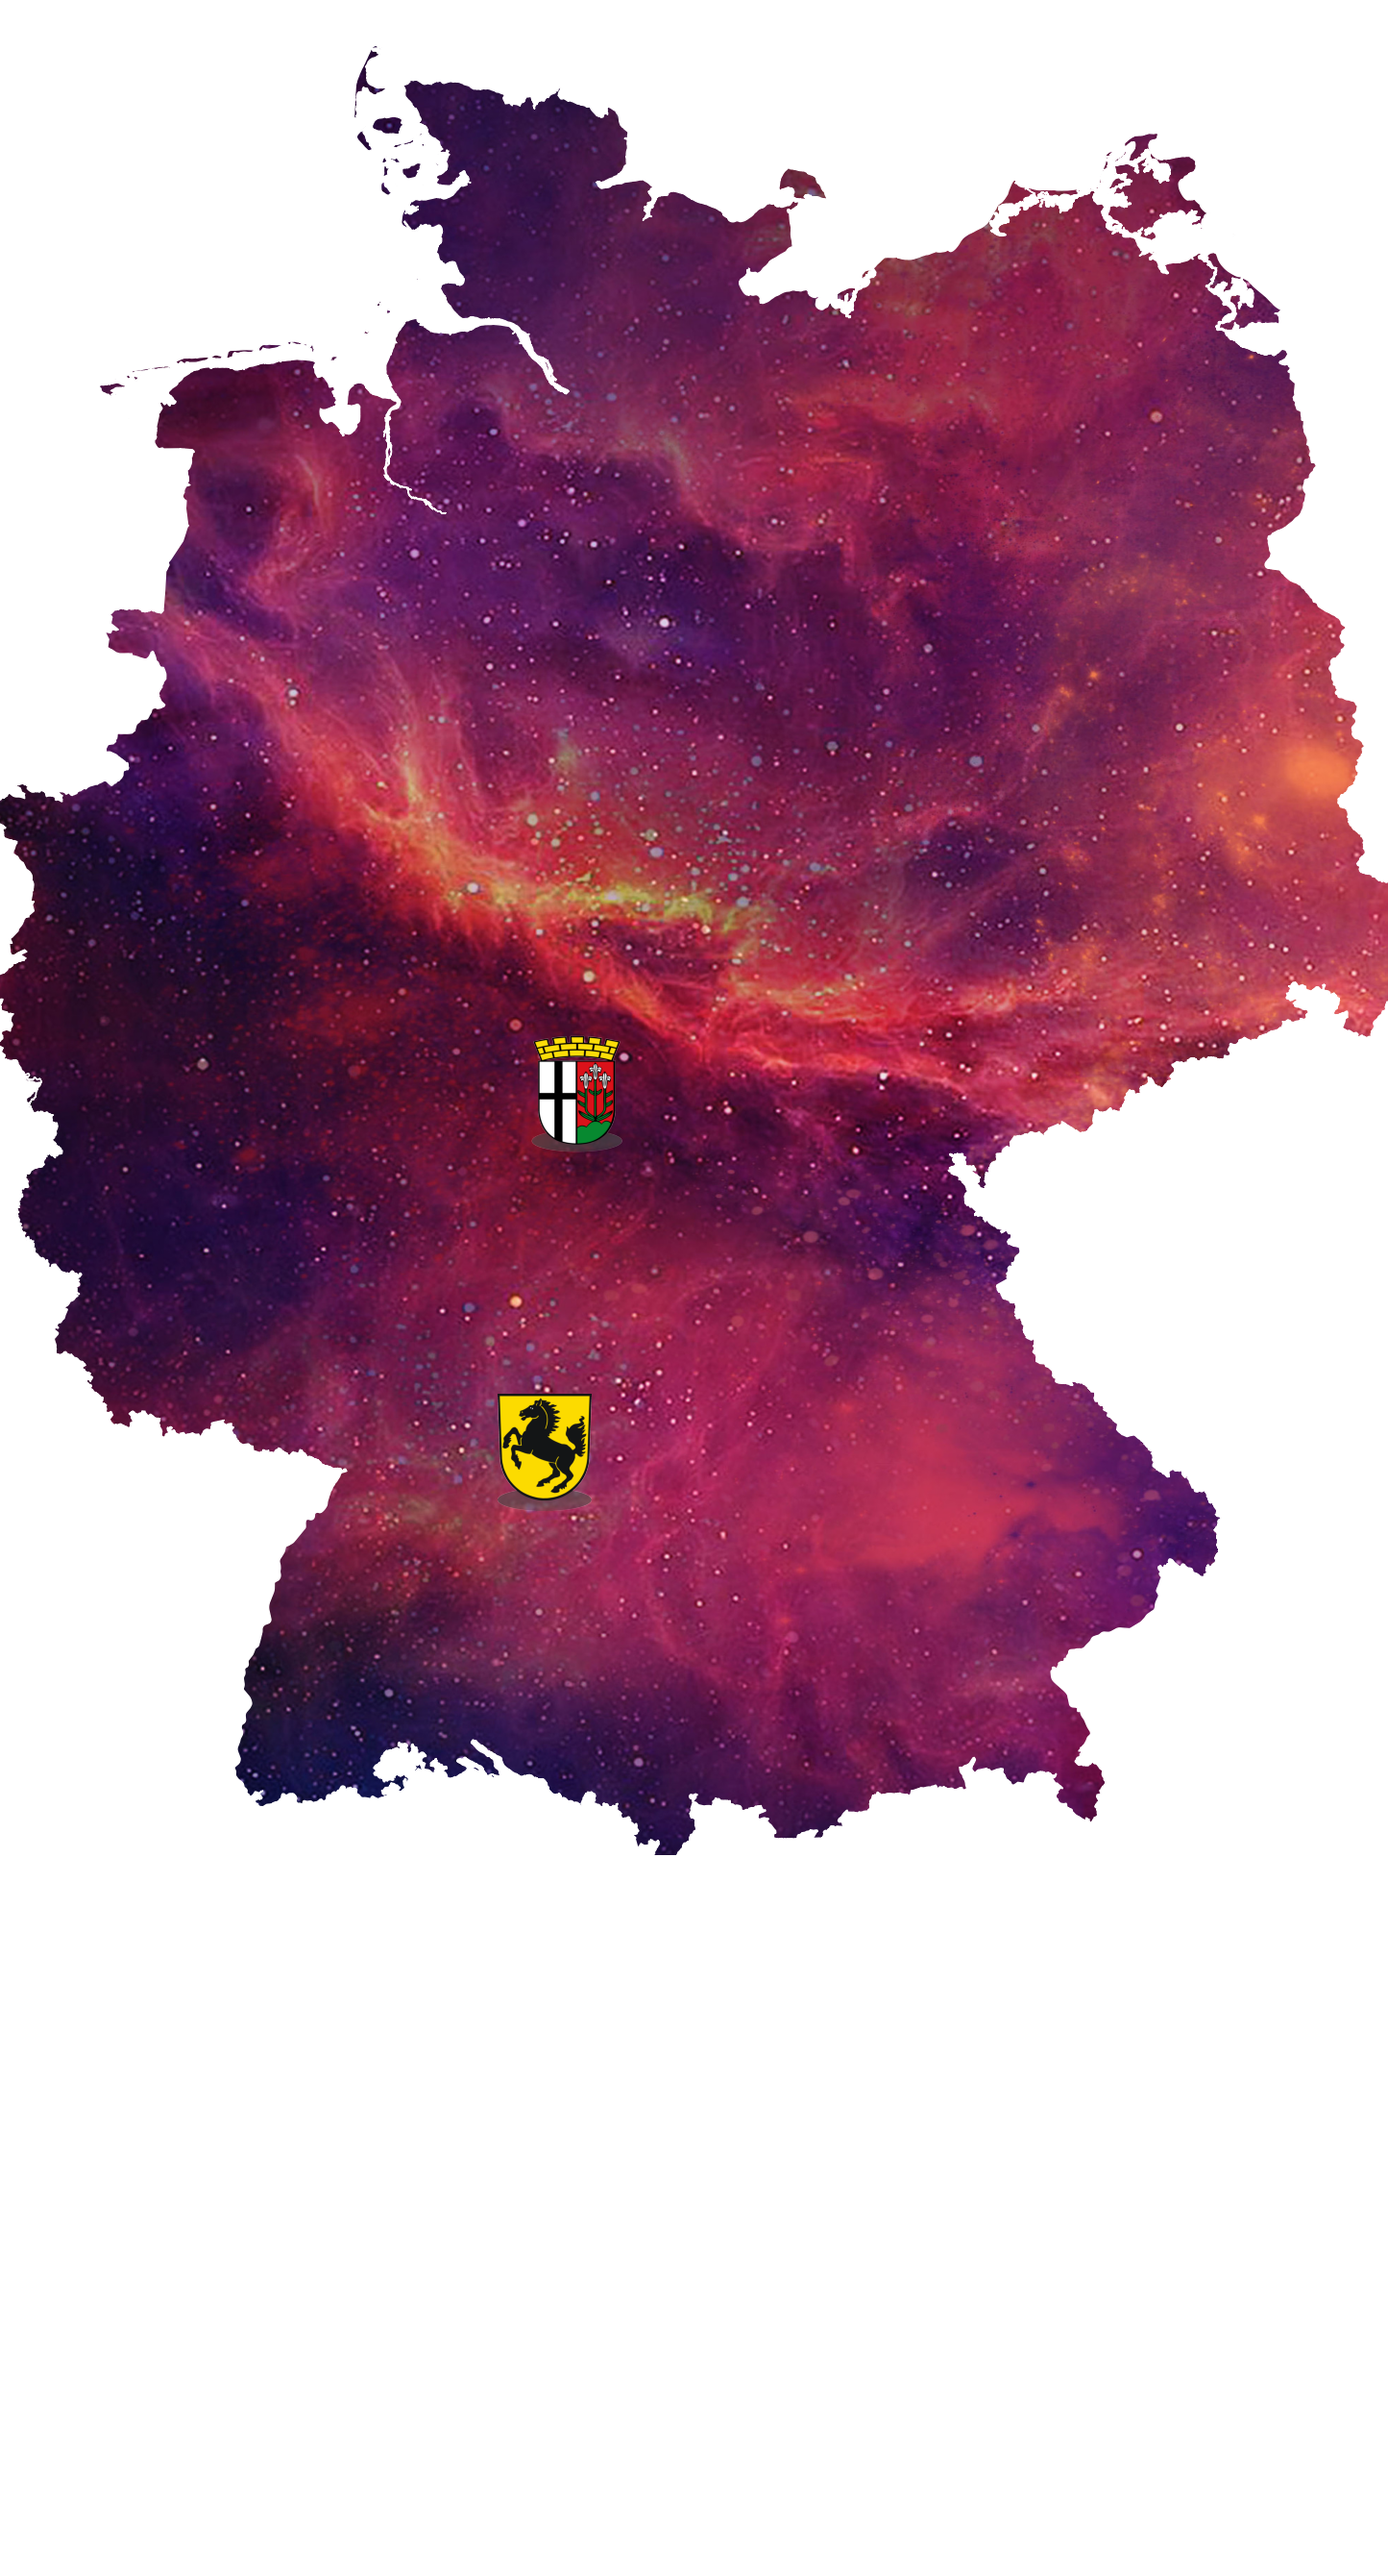
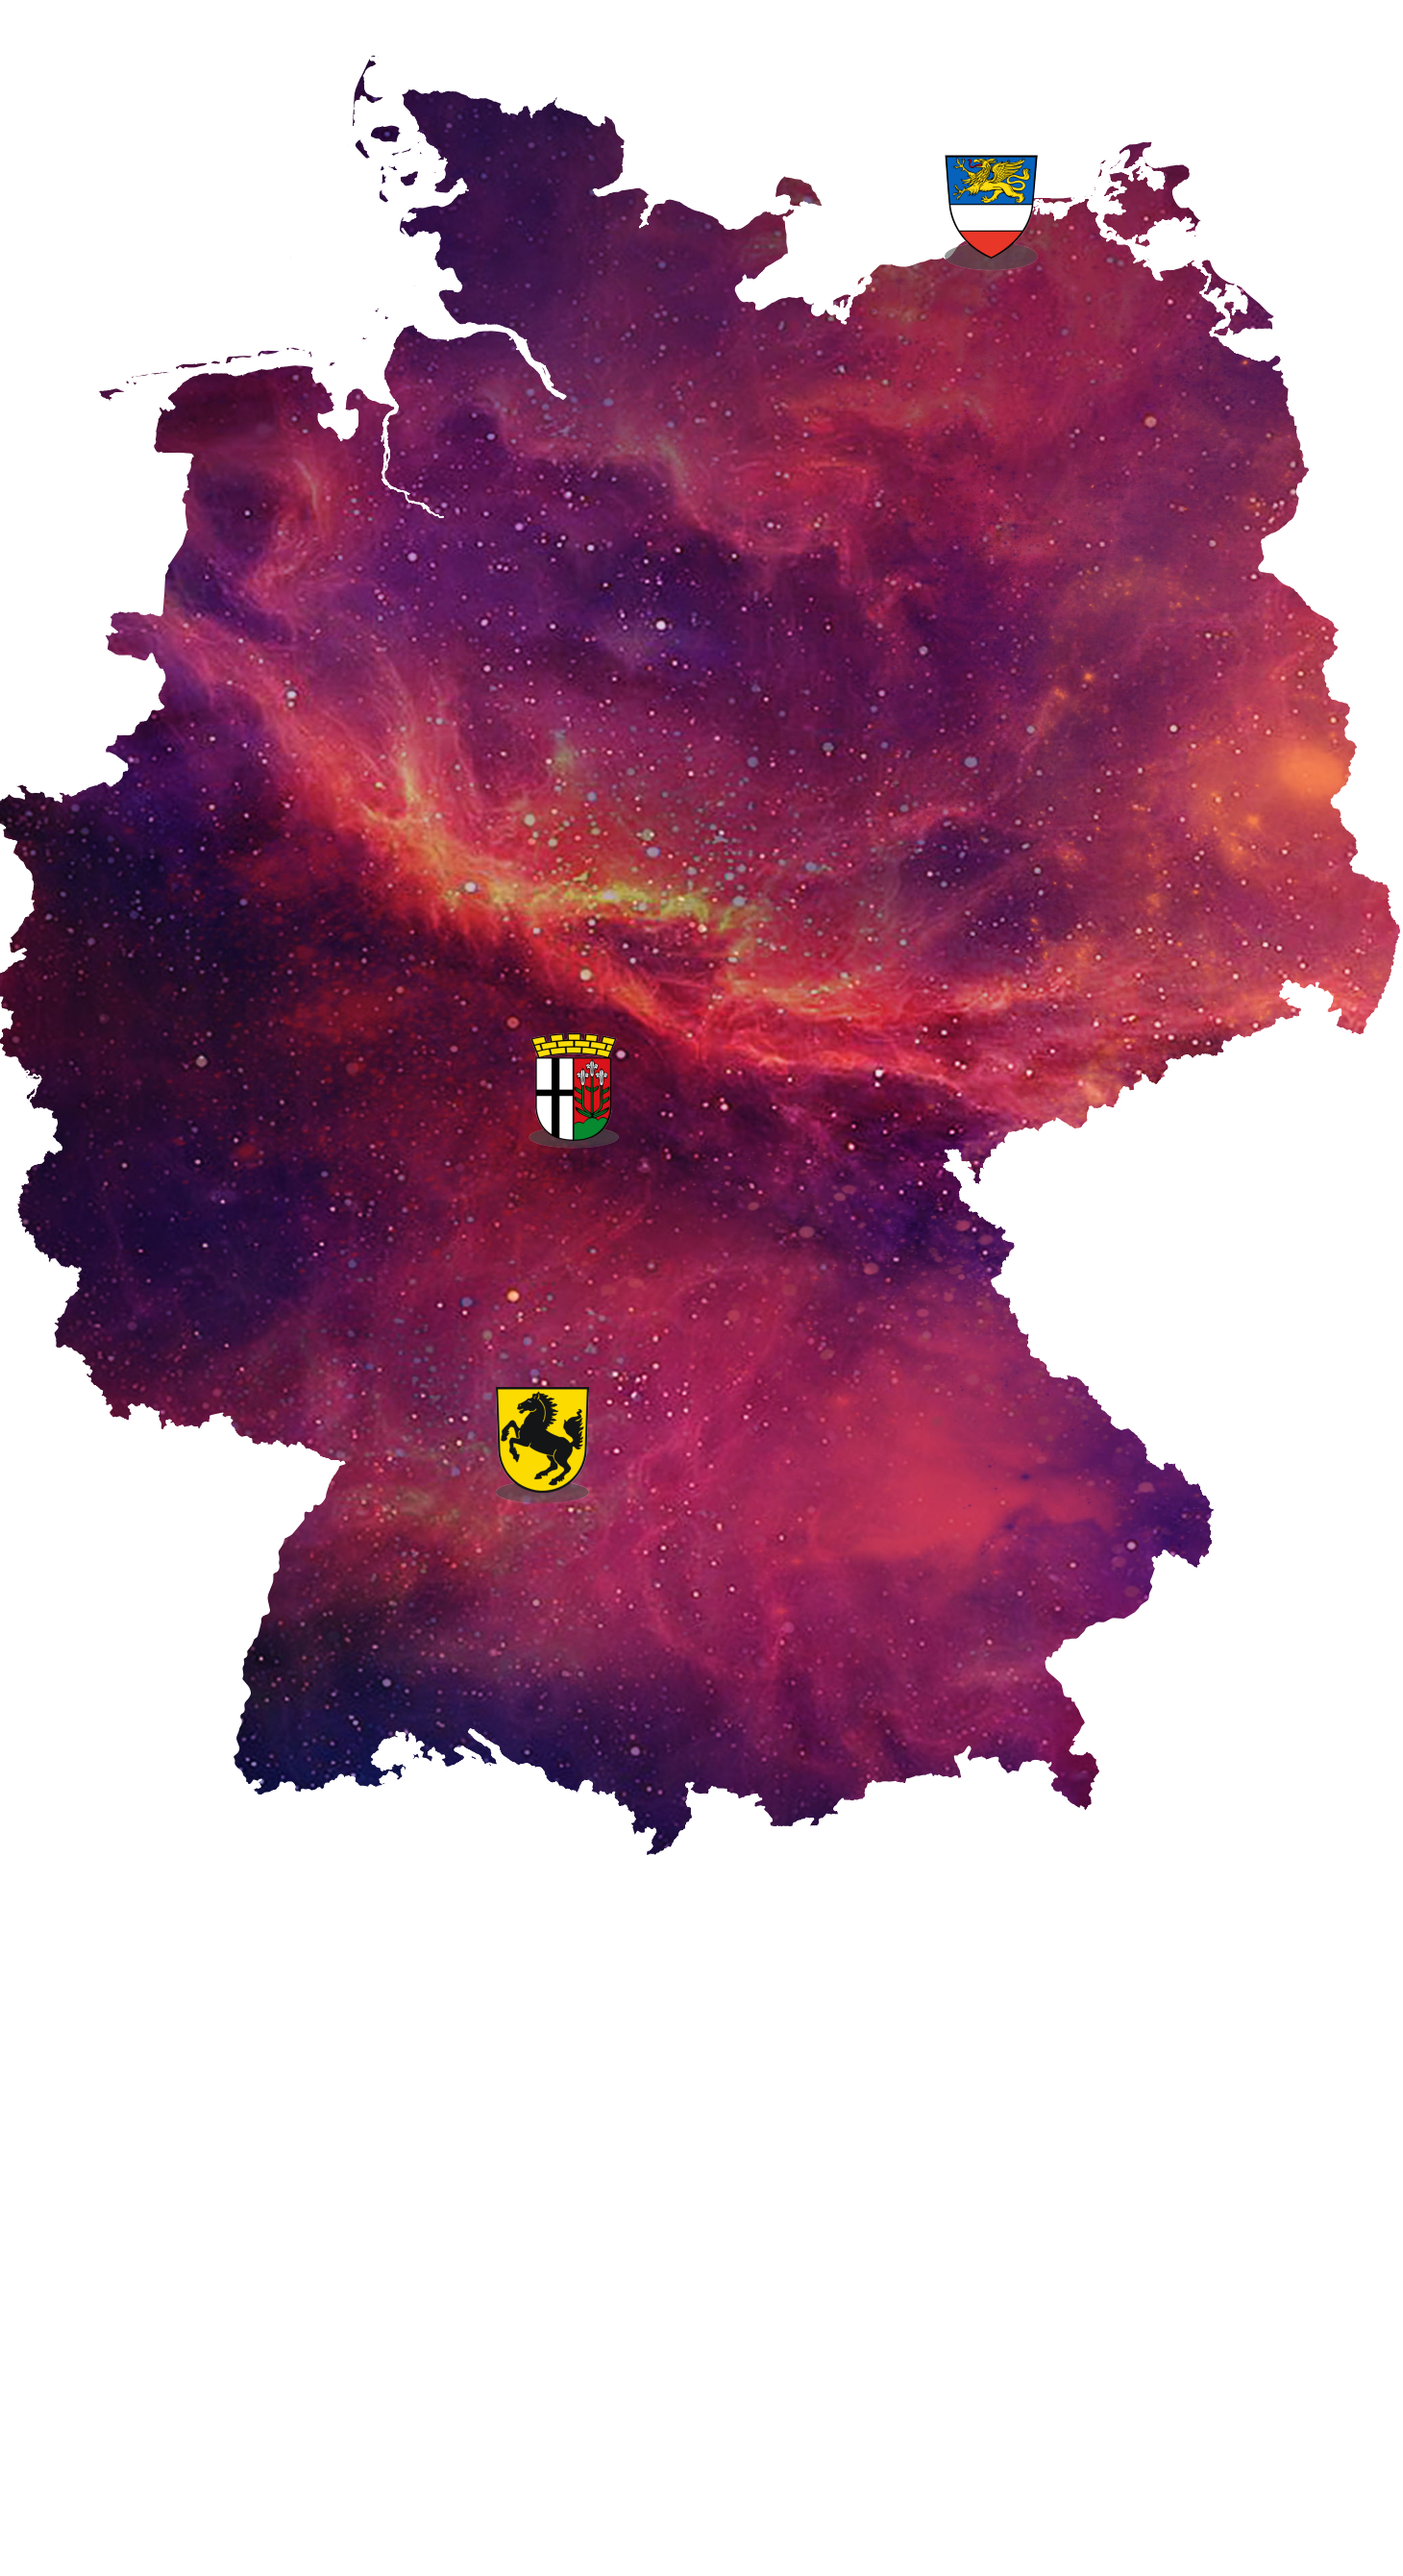
Started adapting ParamsParser

diff --git a/pin_maps/input_parser/ParamsParser.py b/pin_maps/input_parser/ParamsParser.py
@@ -1,8 +1,18 @@
 # Python libraries
-# import yaml
-# External modules
 import argparse
+import json
+# Internal modules
+from input_parser.Coordinates import Coordinates
 
+# NOTE Needed information
+# Country name => shapefile name
+    # Rahmen Land
+    # Rahmen Hintergrund
+    # 
+# Pin => Dateiname, Pin-Koordinaten
+# Hintergrundname => Dateiname 
+# Text1, Text2
+# Font1, Font2
 
 class ParamsParser:
     """Class that makes it easy to retrieve parsed parameters."""
@@ -13,23 +23,57 @@ class ParamsParser:
     def __init__(self):
         parser = argparse.ArgumentParser()
         parser.add_argument(
-            '-q', 
-            '--query',
-            # nargs = '+', SPÄTER LISTE
-            # required = True,
+            '-c', '--country',
+            required = True,
             type = str,
-            help = 'The city or region of which you want to create a map.'
-                )
-        parser.add_argument(
-            '-a',
-            '--latitude',
-            type = float
+            help = 'The country shape which will be displayed.'
         )
         parser.add_argument(
-            '-o',
-            '--longitude',
-            type = float
+            '-w', '--wallpaper',
+            required = True,
+            type = str,
+            help = 'The background image of the country shape.'
         )
+        parser.add_argument(
+            '-h', '--header',
+            required = True,
+            type = str,
+            help = 'The header line.'
+        )
+        parser.add_argument(
+            '-b', '--body',
+            type = str,
+            help = 'The main text body below the header.'
+        )
+        parser.add_argument(
+            '-t', '--towns',
+            nargs = '+', 
+            type = str,
+            help = 'A list of names of locations. They will automatically ' + 
+            'resolved to coordinates, if they can be found.'
+        )
+        parser.add_argument(
+            '-f', '--fonts',
+            nargs = 2,
+            type = str,
+            help = 'The name of the fonts. The first will be used for the header, ' + 
+            'the second for the body.'
+        )
+        parser.add_argument(
+            '-a', '--latitude',
+            nargs = '+',
+            type = float,
+            help = 'A list of the latitudes of the pins. The lists of ' + 
+            'latitudes and longitudes need to have the same length.'
+        )
+        parser.add_argument(
+            '-o', '--longitude',
+            nargs = '+',
+            type = float,
+            help = 'A list of the longitudes of the pins. The lists of ' + 
+            'latitudes and longitudes need to have the same length.'
+        )
+
         self.parsed_args = vars(parser.parse_args())
         # print(self.parsed_args)
         query_given = self.parsed_args['query'] is not None

diff --git a/pin_maps/pin_maps.py b/pin_maps/pin_maps.py
@@ -3,7 +3,7 @@
 
 # Internal modules
 from input_parser.ParamsParser import ParamsParser
-from info_retrieval.Coordinates import Coordinates
+# from info_retrieval.Coordinates import Coordinates
 from draw.Map import Map
 # Python libraries
 import os
@@ -38,6 +38,18 @@ def pattern_2nd_text(
     font_size: int = 80, 
     line_dist: int = 10
 ) -> List[Tuple[int, str]]:
+    """Creates the lines and their horizontal start position.
+
+    Args:
+        text (str): The text to be partiotined.
+        img_width (int): Image width.
+        font (ImageFont): The font with which the second text will be written.
+        font_size (int, optional): The size of this font. Defaults to 80.
+        line_dist (int, optional): The vertical distance in pixels between lines. Defaults to 10.
+
+    Returns:
+        List[Tuple[int, str]]: The list of the horizontal start positions and the lines.
+    """
 
     lines = []
     starts = []
@@ -61,28 +73,28 @@ def pattern_2nd_text(
 
 
 def main() -> None:
+    # PARAMS PARSING
     params = ParamsParser()
-    if params.mode == ParamsParser.QUERY:
-        coords = Coordinates(query = params.query)
-    elif params.mode == params.COORDS:
-        coords = Coordinates(coords = params.coords)
-
-    print(coords.lat, coords.lon)
+    # if params.mode == ParamsParser.QUERY:
+    #     coords = Coordinates(query = params.query)
+    # elif params.mode == params.COORDS:
+    #     coords = Coordinates(coords = params.coords)
 
     height_text_space = 750
     text = u'Inge & Maik-Günter'
     added_frame_px = 150
-
-    germany = Map('de-neg.shp', 'space.png', [5.7, 15.25, 47.2, 56.2])
+    # MAP CREATION AND PIN SETTING AND SAVING
+    germany = Map('de-neg.shp', 'space.png', [5.7, 15.3, 47.2, 56.2])
     germany.add_pin('fulda-pin.png', (9.41, 50.33))
     germany.add_pin('stuttgart-pin.png', (9.202620, 48.795474))
+    germany.add_pin('rostock-pin.png', (12.099246, 54.122477))
     germany.save('test.png')
 
 
-    ### DIR, CROPPING & ERWEITERUNG ###
+    ### LADEN, CROPPING & ERWEITERUNG ###
     create_output_dir()
     img = Image.open(os.path.join('output', 'test.png'))
-    (left, right, top, bottom) = (300, 1745, 650, 2580)
+    (left, right, top, bottom) = (300, 1760, 650, 2580) # 1745
     img = img.crop((left, top, right, bottom))
     width_cropped, height_cropped = img.size
 

diff --git a/pin_maps/input_parser/Coordinates.py b/pin_maps/input_parser/Coordinates.py
@@ -2,13 +2,21 @@
 import requests
 import json
 # Typing 
-from typing import Tuple
+from typing import Tuple, Union
 
 class Coordinates:
+    """Contains and automatically resolves locations to coordinates."""
 
     __base_query = 'https://nominatim.openstreetmap.org/search.php?q={}&format=json'
 
-    def __init__(self, query: str = None, coords: Tuple[float, float] = None):
+    def __init__(self, location: Union[str, Tuple[float, float]]):
+        if type(location) is str:
+            query, coords = location, None
+        elif type(location) is tuple:
+            query, coords = None, location
+        else:
+            raise Exception('Please provide either a location string or the coordinates as a tuple of floats.')
+
         if query is not None:
             self.__latitude, self.__longitude = self.__resolve(query)
         elif coords is not None:
@@ -16,6 +24,7 @@ class Coordinates:
         else:
             raise Exception('Please provide either a location string or the coordinates.')
         # When coordinates are resolved or read, check if they are inside the Germany box (top, left, right, bottom.)
+    
     
     def __resolve(self, query: str) -> Tuple[float, float]:
         url = self.__base_query.format(query.lower())
@@ -46,3 +55,7 @@ class Coordinates:
     @property
     def coords(self) -> Tuple[float, float]:
         return (self.__latitude, self.__longitude)
+
+
+    def __str__(self):
+        return f'(Latitude: {self.__latitude} | Longitude: {self.__longitude})'

diff --git a/pin_maps/draw/Map.py b/pin_maps/draw/Map.py
@@ -8,7 +8,14 @@ import matplotlib.pyplot as plt
 from typing import List, Tuple
 
 class Map:
-    """Represents the map on which one can draw."""
+    """Represents the map on which one can draw.
+
+    Args:
+        shapefile_name (str): Name of the shapefile.
+        background_name (str): Name of the background file.
+        extent (List[float]): Extent of the map.
+        aspect_ratio (float, optional): Aspect ratio of the map. Defaults to 1.49.
+    """
 
     width = 2000
     height = 3000
@@ -20,7 +27,7 @@ class Map:
         shapefile_name: str,
         background_name: str, 
         extent: List[float],
-        aspect_ratio: float = 1.5
+        aspect_ratio: float = 1.49
     ):
         self.aspect_ratio = aspect_ratio
         self.fig = plt.figure(figsize = (self.width / self.dpi, self.height / self.dpi), dpi = self.dpi, frameon = False)
